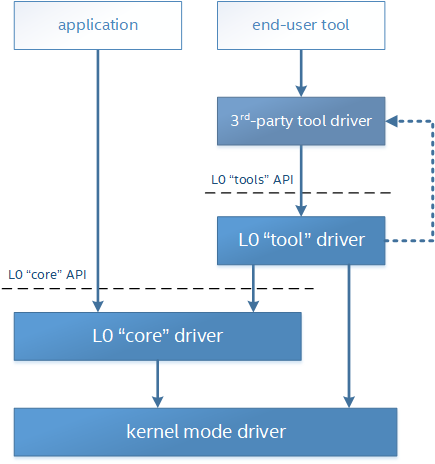
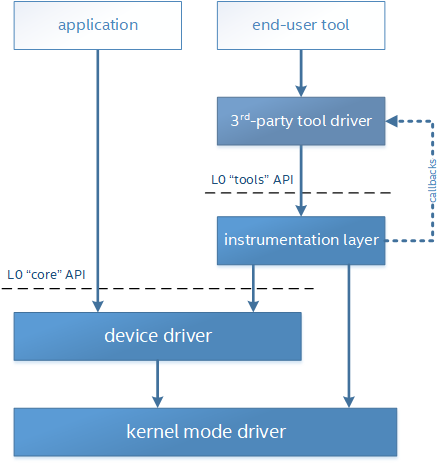
Update INTRO.md
Updated loader section(s)

diff --git a/core/INTRO.md b/core/INTRO.md
@@ -165,42 +165,68 @@ The following section provides high-level driver architecture.
 ![Driver](../images/intro_driver.png?raw=true)  
 @image latex intro_driver.png
 
-## Loading
+## Driver Loader
 The Level-Zero driver(s) are loaded using a _xe_vendor_loader.dll_ (windows) / _xe_vendor_loader.so_ (linux), which is copied on the system during installation of the device driver;
 where _vendor_ is a name chosen by the device vendor.  For Intel GPUs, the name would be _xe_intc_loader_.
 
-- The loader initiates the loading of the validation layer and/or the common driver.
-- The loader maintains a per-process function pointer table.
-- The loader's function pointer table entries may point to:
-    + validation layer intercepts (if enabled)
-    + common driver exports (if more than one supported device group are present in the system)
-    + device group driver exports
-- The common driver determines which other device group-specific drivers need to be loaded based on which devices are present in the system.
-- The common driver may be bypassed entirely if there are no other device group drivers
-- If the common driver is needed, then it may implement specific APIs (such as memory allocation) and use private DDIs to notify device group-specific drivers
+The loader initiates the loading of the driver(s) and layer(s).
+The loader exports all API functions to the application; which internally map to a per-process function pointer table.
+
+The following diagram illustrates the expected loading sequence:
+![Loader](../images/intro_loader.png?raw=true)  
+@image latex intro_loader.png
+
+Thus, the loader's internal function pointer table entries may point to:
+    + validation layer intercepts (if enabled),
+    + common driver intercepts (e.g., if more than one supported device type are present in the system),
+    + instrumentation layer intercepts (if enabled),
+    + device driver exports,
+    + or any combination of the above
+
+## Common Driver
+The common driver determines which other device drivers need to be loaded, based on which device types are present in the system.
+The common driver may be bypassed entirely if there is only one device driver needed.
+If the common driver is required, then it may implement specific APIs (such as memory allocation) and use private DDIs for notifying device drivers of these events.
+
+## Device Driver
+The device driver(s) implement device-specific APIs.
 
 ## <a name="v0">Validation Layer</a>
 The validation layer provides an optional capability for application developers to enable additional API validation while maintaining minimal driver implementation overhead.
 - works independent of driver implementation
 - works for production / release drivers
+- works independent of device type
 - checks for common application errors, such as parameter validation
-- provides for common application debug tracking, such as object and memory lifetime
+- provides common application debug tracking, such as object and memory lifetime
 
 The validation layer must be enabled via an environment variables.
 Each capability is enabled by additional environment variables.
 
 The validation layer supports the following capabilities:
-- <a name="v1">API Tracing</a>
-    + enables API tracing and profiling APIs; more details in Tools programming guide
-- <a name="v2">Parameter Validation</a>
+- <a name="v1">Parameter Validation</a>
     + checks function parameters, such as null pointer parameters, invalid enumerations, uninitialized structures, etc.
     + functions may return ::XE_RESULT_ERROR_INVALID_PARAMETER or ::XE_RESULT_ERROR_UNSUPPORTED
-- <a name="v3">Handle Lifetime</a>
+- <a name="v2">Handle Lifetime</a>
     + tracks handle allocations, destruction and usage for leaks and invalid usage (e.g., destruction while still in-use by device)
-- <a name="v4">Memory Tracker</a>
+- <a name="v3">Memory Tracker</a>
     + tracks memory allocations and free for leaks and invalid usage (e.g., non-visible to device)
-- <a name="v5">Threading Validation</a>
+- <a name="v4">Threading Validation</a>
     + checks multi-threading usage (e.g., functions are not called from simultaneous threads using the same handle)
+
+## <a name="i0">Instrumentation Layer</a>
+The instrumentation layer provides an optional capability for application developers to enable additional profiling API while maintaining minimal driver implementation overhead.
+- works independent of driver implementation
+- works for production / release drivers
+- implements [Tools](#tls) APIs
+
+The instrumentation layer must be enabled via an environment variables.
+Each capability is enabled by additional environment variables.
+
+The instrumentation layer supports the following capabilities:
+- <a name="i1">API Tracing</a>
+    + enables API tracing and profiling APIs; more details in Tools programming guide
+- <a name="i1">PIN</a>
+    + enables binary instrumentation of programs for profiling; more details in Tools programming guide
 
 ## Environment Variables
 The following table documents the supported knobs for overriding default driver behavior.
@@ -208,12 +234,14 @@ The following table documents the supported knobs for overriding default driver 
 |---------------------|---------------------------------------------|-------------------|-----------------------------------------------------------------------------------|
 | Device              | [XE_AFFINITY_MASK](#aff)                  | hex string        | Forces driver to only report devices (and sub-devices) as specified by mask value |
 | Memory              | XE_SHARED_FORCE_DEVICE_ALLOC              | {**0**, 1}        | Forces all shared allocations into device memory                                  |
-| Validation          | [XE_ENABLE_VALIDATION_LAYER](#v0)         | {**0**, 1}        | Enables validation layer(s) for debugging                                         |
-| ^                   | [XE_ENABLE_API_TRACING](#v1)              | {**0**, 1}        | Enables the validation level for tracing API calls                                |
-| ^                   | [XE_ENABLE_PARAMETER_VALIDATION](#v2)     | {**0**, 1}        | Enables the validation level for parameters                                       |
-| ^                   | [XE_ENABLE_HANDLE_LIFETIME](#v3)          | {**0**, 1}        | Enables the validation level for tracking handle lifetime                         |
-| ^                   | [XE_ENABLE_MEMORY_TRACKER](#v4)           | {**0**, 1}        | Enables the validation level for tracking memory lifetime                         |
-| ^                   | [XE_ENABLE_THREADING_VALIDATION](#v5)     | {**0**, 1}        | Enables the validation level for multithreading usage                             |
+| Validation          | [XE_ENABLE_VALIDATION_LAYER](#v0)         | {**0**, 1}        | Enables validation layer for debugging                                            |
+| ^                   | [XE_ENABLE_PARAMETER_VALIDATION](#v1)     | {**0**, 1}        | Enables the validation level for parameters                                       |
+| ^                   | [XE_ENABLE_HANDLE_LIFETIME](#v2)          | {**0**, 1}        | Enables the validation level for tracking handle lifetime                         |
+| ^                   | [XE_ENABLE_MEMORY_TRACKER](#v3)           | {**0**, 1}        | Enables the validation level for tracking memory lifetime                         |
+| ^                   | [XE_ENABLE_THREADING_VALIDATION](#v4)     | {**0**, 1}        | Enables the validation level for multithreading usage                             |
+| Instrumentation     | [XE_ENABLE_INSTRUMENTATION_LAYER](#i0)    | {**0**, 1}        | Enables instrumentation layer for profiling                                       |
+| ^                   | [XE_ENABLE_API_TRACING](#i1)              | {**0**, 1}        | Enables the instrumentation level for tracing API calls                           |
+| ^                   | [XE_ENABLE_PIN](#i2)                      | {**0**, 1}        | Enables the instrumentation level for program instrumentation                     |
 
 ### <a name="aff">Affinity Mask</a>
 The affinity mask allows an application or tool to restrict which devices (and sub-devices) are visible to 3rd-party libraries or applications in another process, respectively.
@@ -233,10 +261,13 @@ The following examples demonstrate proper usage:
     + "06" = only device 1 (with all its sub-devices) is reported as device 0
     + "05" = both device 0 and device 1 are reported, however each only has one sub-device reported as sub-device 0
 
-# <a name="tls">Tools</a> (WIP)
+# <a name="tls">Tools</a>
 Level-Zero APIs specific for supporting 3rd-party tools are seperated from "Core" into "Tools" APIs.
 
 The following diagram illustrates the hierachy of "Core" versus "Tool" APIs:  
 ![Tool](../images/intro_tools.png?raw=true)  
 @image latex intro_tools.png
+
+The "Tools" APIs are designed to provided low-level access to device capabilities in order to support 3rd-party tools, but are not intended to replace or directly interface 3rd-party tools.
+The "Tools" APIs allow for driver callbacks to be registered by 3rd-party tools to be notified of specific event.
 

diff --git a/scripts/core/INTRO.md b/scripts/core/INTRO.md
@@ -171,44 +171,70 @@ The following section provides high-level driver architecture.
 ![Driver](../images/intro_driver.png?raw=true)  
 @image latex intro_driver.png
 
-${"##"} Loading
+${"##"} Driver Loader
 ## --validate=off
 The Level-Zero driver(s) are loaded using a _${x}_vendor_loader.dll_ (windows) / _${x}_vendor_loader.so_ (linux), which is copied on the system during installation of the device driver;
 where _vendor_ is a name chosen by the device vendor.  For Intel GPUs, the name would be _${x}_intc_loader_.
 ## --validate=on
 
-- The loader initiates the loading of the validation layer and/or the common driver.
-- The loader maintains a per-process function pointer table.
-- The loader's function pointer table entries may point to:
-    + validation layer intercepts (if enabled)
-    + common driver exports (if more than one supported device group are present in the system)
-    + device group driver exports
-- The common driver determines which other device group-specific drivers need to be loaded based on which devices are present in the system.
-- The common driver may be bypassed entirely if there are no other device group drivers
-- If the common driver is needed, then it may implement specific APIs (such as memory allocation) and use private DDIs to notify device group-specific drivers
+The loader initiates the loading of the driver(s) and layer(s).
+The loader exports all API functions to the application; which internally map to a per-process function pointer table.
+
+The following diagram illustrates the expected loading sequence:
+![Loader](../images/intro_loader.png?raw=true)  
+@image latex intro_loader.png
+
+Thus, the loader's internal function pointer table entries may point to:
+    + validation layer intercepts (if enabled),
+    + common driver intercepts (e.g., if more than one supported device type are present in the system),
+    + instrumentation layer intercepts (if enabled),
+    + device driver exports,
+    + or any combination of the above
+
+${"##"} Common Driver
+The common driver determines which other device drivers need to be loaded, based on which device types are present in the system.
+The common driver may be bypassed entirely if there is only one device driver needed.
+If the common driver is required, then it may implement specific APIs (such as memory allocation) and use private DDIs for notifying device drivers of these events.
+
+${"##"} Device Driver
+The device driver(s) implement device-specific APIs.
 
 ${"##"} <a name="v0">Validation Layer</a>
 The validation layer provides an optional capability for application developers to enable additional API validation while maintaining minimal driver implementation overhead.
 - works independent of driver implementation
 - works for production / release drivers
+- works independent of device type
 - checks for common application errors, such as parameter validation
-- provides for common application debug tracking, such as object and memory lifetime
+- provides common application debug tracking, such as object and memory lifetime
 
 The validation layer must be enabled via an environment variables.
 Each capability is enabled by additional environment variables.
 
 The validation layer supports the following capabilities:
-- <a name="v1">API Tracing</a>
-    + enables API tracing and profiling APIs; more details in Tools programming guide
-- <a name="v2">Parameter Validation</a>
+- <a name="v1">Parameter Validation</a>
     + checks function parameters, such as null pointer parameters, invalid enumerations, uninitialized structures, etc.
     + functions may return ::${X}_RESULT_ERROR_INVALID_PARAMETER or ::${X}_RESULT_ERROR_UNSUPPORTED
-- <a name="v3">Handle Lifetime</a>
+- <a name="v2">Handle Lifetime</a>
     + tracks handle allocations, destruction and usage for leaks and invalid usage (e.g., destruction while still in-use by device)
-- <a name="v4">Memory Tracker</a>
+- <a name="v3">Memory Tracker</a>
     + tracks memory allocations and free for leaks and invalid usage (e.g., non-visible to device)
-- <a name="v5">Threading Validation</a>
+- <a name="v4">Threading Validation</a>
     + checks multi-threading usage (e.g., functions are not called from simultaneous threads using the same handle)
+
+${"##"} <a name="i0">Instrumentation Layer</a>
+The instrumentation layer provides an optional capability for application developers to enable additional profiling API while maintaining minimal driver implementation overhead.
+- works independent of driver implementation
+- works for production / release drivers
+- implements [Tools](#tls) APIs
+
+The instrumentation layer must be enabled via an environment variables.
+Each capability is enabled by additional environment variables.
+
+The instrumentation layer supports the following capabilities:
+- <a name="i1">API Tracing</a>
+    + enables API tracing and profiling APIs; more details in Tools programming guide
+- <a name="i1">PIN</a>
+    + enables binary instrumentation of programs for profiling; more details in Tools programming guide
 
 ${"##"} Environment Variables
 The following table documents the supported knobs for overriding default driver behavior.
@@ -217,12 +243,14 @@ The following table documents the supported knobs for overriding default driver 
 |---------------------|---------------------------------------------|-------------------|-----------------------------------------------------------------------------------|
 | Device              | [${X}_AFFINITY_MASK](#aff)                  | hex string        | Forces driver to only report devices (and sub-devices) as specified by mask value |
 | Memory              | ${X}_SHARED_FORCE_DEVICE_ALLOC              | {**0**, 1}        | Forces all shared allocations into device memory                                  |
-| Validation          | [${X}_ENABLE_VALIDATION_LAYER](#v0)         | {**0**, 1}        | Enables validation layer(s) for debugging                                         |
-| ^                   | [${X}_ENABLE_API_TRACING](#v1)              | {**0**, 1}        | Enables the validation level for tracing API calls                                |
-| ^                   | [${X}_ENABLE_PARAMETER_VALIDATION](#v2)     | {**0**, 1}        | Enables the validation level for parameters                                       |
-| ^                   | [${X}_ENABLE_HANDLE_LIFETIME](#v3)          | {**0**, 1}        | Enables the validation level for tracking handle lifetime                         |
-| ^                   | [${X}_ENABLE_MEMORY_TRACKER](#v4)           | {**0**, 1}        | Enables the validation level for tracking memory lifetime                         |
-| ^                   | [${X}_ENABLE_THREADING_VALIDATION](#v5)     | {**0**, 1}        | Enables the validation level for multithreading usage                             |
+| Validation          | [${X}_ENABLE_VALIDATION_LAYER](#v0)         | {**0**, 1}        | Enables validation layer for debugging                                            |
+| ^                   | [${X}_ENABLE_PARAMETER_VALIDATION](#v1)     | {**0**, 1}        | Enables the validation level for parameters                                       |
+| ^                   | [${X}_ENABLE_HANDLE_LIFETIME](#v2)          | {**0**, 1}        | Enables the validation level for tracking handle lifetime                         |
+| ^                   | [${X}_ENABLE_MEMORY_TRACKER](#v3)           | {**0**, 1}        | Enables the validation level for tracking memory lifetime                         |
+| ^                   | [${X}_ENABLE_THREADING_VALIDATION](#v4)     | {**0**, 1}        | Enables the validation level for multithreading usage                             |
+| Instrumentation     | [${X}_ENABLE_INSTRUMENTATION_LAYER](#i0)    | {**0**, 1}        | Enables instrumentation layer for profiling                                       |
+| ^                   | [${X}_ENABLE_API_TRACING](#i1)              | {**0**, 1}        | Enables the instrumentation level for tracing API calls                           |
+| ^                   | [${X}_ENABLE_PIN](#i2)                      | {**0**, 1}        | Enables the instrumentation level for program instrumentation                     |
 ## --validate=on
 
 ${"###"} <a name="aff">Affinity Mask</a>
@@ -243,10 +271,13 @@ The following examples demonstrate proper usage:
     + "06" = only device 1 (with all its sub-devices) is reported as device 0
     + "05" = both device 0 and device 1 are reported, however each only has one sub-device reported as sub-device 0
 
-${"#"} <a name="tls">Tools</a> (WIP)
+${"#"} <a name="tls">Tools</a>
 Level-Zero APIs specific for supporting 3rd-party tools are seperated from "Core" into "Tools" APIs.
 
 The following diagram illustrates the hierachy of "Core" versus "Tool" APIs:  
 ![Tool](../images/intro_tools.png?raw=true)  
 @image latex intro_tools.png
+
+The "Tools" APIs are designed to provided low-level access to device capabilities in order to support 3rd-party tools, but are not intended to replace or directly interface 3rd-party tools.
+The "Tools" APIs allow for driver callbacks to be registered by 3rd-party tools to be notified of specific event.
 
